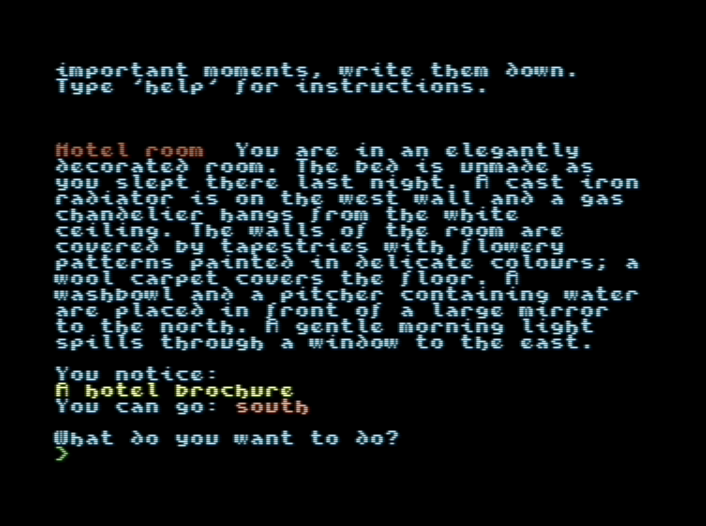
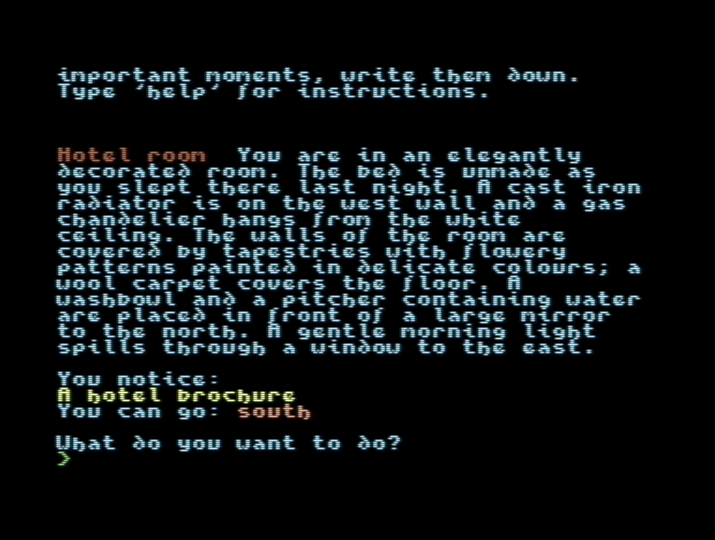
Updated the example screenshot of the Art Nouveau 64 font, improved a few details.

Changed region(s): [[0.0623, 0.2738, 0.9037, 0.8821], [0.0623, 0.1217, 0.8102, 0.1825]]

diff --git a/inout.c b/inout.c
@@ -18,8 +18,13 @@
 #include "inout.h"
 
 char playerInput[BUFFERSIZE];
+#ifdef NCOL
 char wordbuffer[NCOL];
 EFFSHORTINDEX colc;
+#else
+#define NBUF 50
+char wordbuffer[NBUF];
+#endif
 
 #ifdef NROW
 EFFSHORTINDEX rowc;
@@ -38,7 +43,9 @@ extern word dictionary[];
 
 EFFSHORTINDEX ls, lc;
 EFFSHORTINDEX pc;
-
+#ifndef NCOL
+EFFSHORTINDEX opc;
+#endif
 #ifdef DEFINEWTR
 void wtr(const char *s) FASTCALL
 {
@@ -65,8 +72,20 @@ void writesameln(char *line) FASTCALL
             #ifndef COMPRESSED
             || (c=='\\' && d=='n')
             #endif
-            ) {
-            wordbuffer[pc]='\0';
+            #ifndef NCOL
+            || (pc==NBUF-2)
+            #endif
+            )
+        {
+            #ifndef NCOL
+            if (pc==NBUF-2) {
+                wordbuffer[pc]=c;
+                wordbuffer[pc+1]='\0';
+                opc=pc;
+            } else
+            #endif
+                wordbuffer[pc]='\0';
+            #ifdef NCOL
             if(colc>=NCOL) {
                 PUTC('\n');
                 colc=pc;
@@ -74,6 +93,7 @@ void writesameln(char *line) FASTCALL
                 if(++rowc>NROW) {waitkey(); rowc=0;};
                 #endif
             }
+            #endif
             PUTS(wordbuffer);
             if(c=='\0')
                 return;
@@ -88,17 +108,30 @@ void writesameln(char *line) FASTCALL
                     ++line;
                 #endif
                 PUTC('\n');
+                #ifdef NCOL
                 colc=0;
+                #endif
                 #ifdef NROW
                 if(++rowc>NROW) {waitkey(); rowc=0;};
                 #endif
-            } else if(colc<NCOL-1) {
-                PUTC(' ');
+            } else
+            #ifdef NCOL
+                if(colc<NCOL-1) 
+            #endif
+            {
+                #ifndef NCOL
+                if (opc!=NBUF-2)
+                #endif
+                    PUTC(' ');
+                #ifdef NCOL
                 ++colc;
+                #endif
             }
         } else {
             wordbuffer[pc++]=c;
+            #ifdef NCOL
             ++colc;
+            #endif
         }
     }
 }
@@ -107,7 +140,9 @@ void writesameln(char *line) FASTCALL
 void clear(void)
 {
     cls();
+    #ifdef NCOL
     colc=0;
+    #endif
     #ifdef NROW
     rowc=0;
     #endif
@@ -129,7 +164,9 @@ void writeln(char* line) FASTCALL
     #ifdef NROW
     if(++rowc>NROW) {waitkey(); rowc=0;};
     #endif
+    #ifdef NCOL
     colc=0;
+    #endif
 }
 
 /* 'Eat' a carriage return that may be present at the end of a string.

diff --git a/systemd.h b/systemd.h
@@ -394,11 +394,11 @@
     #define waitscreen()
 
     /* The number of columns of the screen */
-    #define NCOL 64
+    //#define NCOL 64
     /* The number of available rows of the screen. If undefined, it is
        not checked
     */
-    #define NROW 18
+    //#define NROW 18
 
     #define waitkey() getc_x16()
     #define inputtxt() PUTC(ATTR_BOLD);PUTC(COLOR_BLUE)
